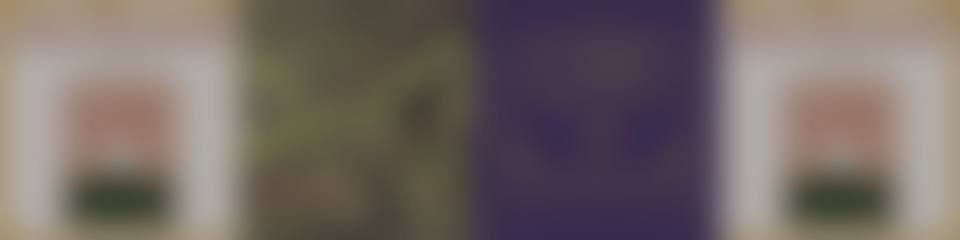
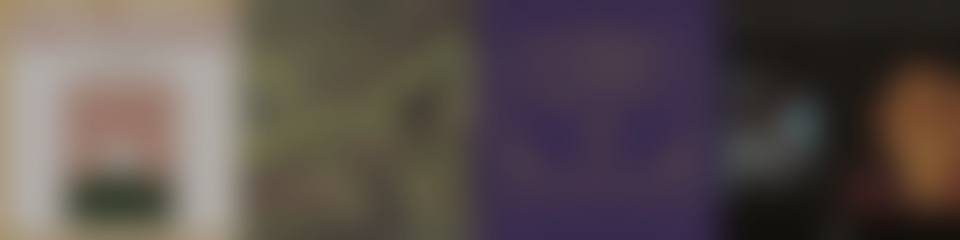
Playlists 43-50

Changed region(s): [[0.7188, 0.0, 1.0, 1.0]]

diff --git a/_page/index.html b/_page/index.html
@@ -194,11 +194,11 @@ footer { margin: 48px 0 0; padding: 18px 0 48px; border-top: 1px solid var(--pap
   <header class="masthead">
     <small><span>Voidceptions</span><span>Cat. 2026-11-22</span></small>
     <h1>Playlist <em>catalogue</em></h1>
-    <small><span>42 playlists · 7 families</span></small>
+    <small><span>50 playlists · 7 families</span></small>
     <p>Notes and listening routes across genres, eras and the experimental edges. Each title opens in YouTube Music.</p>
   </header>
 
-  <nav aria-label="Families"><ol><li class="card"><a class="card-in" href="#ambient-drone" style="--img:url(thumbs/fam-ambient.jpg)"><span class="no">01</span><span class="name">Ambient &amp; Drone</span><span class="n">6</span></a></li><li class="card"><a class="card-in" href="#experimental-sound-design" style="--img:url(thumbs/fam-experimental.jpg)"><span class="no">02</span><span class="name">Experimental &amp; Sound Design</span><span class="n">5</span></a></li><li class="card"><a class="card-in" href="#dub-techno-dub" style="--img:url(thumbs/fam-dub.jpg)"><span class="no">03</span><span class="name">Dub Techno &amp; Dub</span><span class="n">8</span></a></li><li class="card"><a class="card-in" href="#organic-roots" style="--img:url(thumbs/fam-organic.jpg)"><span class="no">04</span><span class="name">Organic &amp; Roots</span><span class="n">3</span></a></li><li class="card"><a class="card-in" href="#idm-electronica" style="--img:url(thumbs/fam-idm.jpg)"><span class="no">05</span><span class="name">IDM &amp; Electronica</span><span class="n">5</span></a></li><li class="card"><a class="card-in" href="#techno" style="--img:url(thumbs/fam-techno.jpg)"><span class="no">06</span><span class="name">Techno</span><span class="n">11</span></a></li><li class="card"><a class="card-in" href="#drum-bass" style="--img:url(thumbs/fam-dnb.jpg)"><span class="no">07</span><span class="name">Drum &amp; Bass</span><span class="n">4</span></a></li><li class="card soon"><span class="card-in"><span class="no">08</span><span class="name">Trance &amp; Goa</span><span class="n">soon</span></span></li></ol></nav>
+  <nav aria-label="Families"><ol><li class="card"><a class="card-in" href="#ambient-drone" style="--img:url(thumbs/fam-ambient.jpg)"><span class="no">01</span><span class="name">Ambient &amp; Drone</span><span class="n">6</span></a></li><li class="card"><a class="card-in" href="#experimental-sound-design" style="--img:url(thumbs/fam-experimental.jpg)"><span class="no">02</span><span class="name">Experimental &amp; Sound Design</span><span class="n">9</span></a></li><li class="card"><a class="card-in" href="#dub-techno-dub" style="--img:url(thumbs/fam-dub.jpg)"><span class="no">03</span><span class="name">Dub Techno &amp; Dub</span><span class="n">9</span></a></li><li class="card"><a class="card-in" href="#organic-roots" style="--img:url(thumbs/fam-organic.jpg)"><span class="no">04</span><span class="name">Organic &amp; Roots</span><span class="n">5</span></a></li><li class="card"><a class="card-in" href="#idm-electronica" style="--img:url(thumbs/fam-idm.jpg)"><span class="no">05</span><span class="name">IDM &amp; Electronica</span><span class="n">5</span></a></li><li class="card"><a class="card-in" href="#techno" style="--img:url(thumbs/fam-techno.jpg)"><span class="no">06</span><span class="name">Techno</span><span class="n">11</span></a></li><li class="card"><a class="card-in" href="#drum-bass" style="--img:url(thumbs/fam-dnb.jpg)"><span class="no">07</span><span class="name">Drum &amp; Bass</span><span class="n">5</span></a></li><li class="card soon"><span class="card-in"><span class="no">08</span><span class="name">Trance &amp; Goa</span><span class="n">soon</span></span></li></ol></nav>
 
   <div class="tools">
     <div class="search-line">
@@ -208,7 +208,7 @@ footer { margin: 48px 0 0; padding: 18px 0 48px; border-top: 1px solid var(--pap
       <button class="random" id="random" type="button">Random</button>
     </div>
     <div class="chips" role="group" aria-label="Filter by tag"><button type="button" class="chip" aria-pressed="false" data-tag="beatless">beatless</button><button type="button" class="chip" aria-pressed="false" data-tag="calm">calm</button><button type="button" class="chip" aria-pressed="false" data-tag="cold">cold</button><button type="button" class="chip" aria-pressed="false" data-tag="dancefloor">dancefloor</button><button type="button" class="chip" aria-pressed="false" data-tag="dark">dark</button><button type="button" class="chip" aria-pressed="false" data-tag="deep listening">deep listening</button><button type="button" class="chip" aria-pressed="false" data-tag="experimental">experimental</button><button type="button" class="chip" aria-pressed="false" data-tag="favourites">favourites</button><button type="button" class="chip" aria-pressed="false" data-tag="field recordings">field recordings</button><button type="button" class="chip" aria-pressed="false" data-tag="glitch">glitch</button><button type="button" class="chip" aria-pressed="false" data-tag="global">global</button><button type="button" class="chip" aria-pressed="false" data-tag="history">history</button><button type="button" class="chip" aria-pressed="false" data-tag="hypnotic">hypnotic</button><button type="button" class="chip" aria-pressed="false" data-tag="long tracks">long tracks</button><button type="button" class="chip" aria-pressed="false" data-tag="melodic">melodic</button><button type="button" class="chip" aria-pressed="false" data-tag="organic">organic</button><button type="button" class="chip" aria-pressed="false" data-tag="rhythm">rhythm</button><button type="button" class="chip" aria-pressed="false" data-tag="texture">texture</button><button type="button" class="chip" aria-pressed="false" data-tag="vocals">vocals</button><button type="button" class="chip" aria-pressed="false" data-tag="warm">warm</button></div>
-    <div class="status"><span id="count" aria-live="polite">42 of 42</span><button id="reset" type="button" hidden>Clear filters</button></div>
+    <div class="status"><span id="count" aria-live="polite">50 of 50</span><button id="reset" type="button" hidden>Clear filters</button></div>
   </div>
 
   <main id="list">
@@ -323,7 +323,7 @@ footer { margin: 48px 0 0; padding: 18px 0 48px; border-top: 1px solid var(--pap
   <header class="fam-head" style="--img:url(thumbs/fam-experimental.jpg)">
     <span class="fam-no">02</span>
     <h2>Experimental &amp; Sound Design</h2>
-    <span class="fam-count">5</span>
+    <span class="fam-count">9</span>
     <button class="info" type="button" aria-expanded="false" aria-controls="experimental-sound-design-info">Info</button>
   </header>
   <div class="unfold" id="experimental-sound-design-info"><div><p class="fam-info">Here the sound itself is the composition. The line runs from musique concrète in late-1940s Paris, where recorded noises were cut and looped on tape, through the electronic studios of Cologne and the BBC Radiophonic Workshop, to IDM, glitch and today&#x27;s sound sculptors. Methods change, from razor blades and tape to granular synthesis and modular systems, but the question stays the same: what happens if a sound is treated as material rather than as a carrier for melody? Rhythm research, texture, digital precision and broken machines all live in this corner.</p></div></div>
@@ -408,13 +408,77 @@ footer { margin: 48px 0 0; padding: 18px 0 48px; border-top: 1px solid var(--pap
   </div>
   <div class="unfold" id="vc042-bg"><div><p class="bg">Generative music starts with rules rather than notes. Terry Riley&#x27;s In C (1964) gives 53 short phrases that each player repeats at will, and Brian Eno&#x27;s Discreet Music (1975) came from tape loops left to run. Laurie Spiegel wrote music software at Bell Labs, and Roland Kayn built self-regulating electronic systems he called cybernetic music. Eno, who coined the term generative music in the 90s, released Reflection (2017) as one such piece.</p></div></div>
 </li>
+<li class="row" data-tags="history|texture" data-search="hauntology · ghosts in the tape music haunted by a future that never arrived. library-music pastiche, worn ballroom records, public-information-film synths and memory as decay, from the ghost box label and the caretaker to their american and british cousins. history texture hauntology borrows a term from the philosopher jacques derrida; the critics simon reynolds and mark fisher applied it to music in the mid-2000s. the ghost box label, founded in 2004 by jim jupp (belbury poly) and julian house (the focus group), built a world from library music, public information films and old educational television. the caretaker, a project of leyland kirby, loops and wears down old ballroom records into studies of memory." data-added="2026-11-22">
+  <div class="row-head">
+    <a class="thumb" href="https://music.youtube.com/playlist?list=PLb1GrzPfw4wQ" rel="noopener" tabindex="-1" aria-hidden="true"><img src="thumbs/VC-045.jpg" width="168" height="168" alt="" loading="lazy" decoding="async"></a>
+    <div class="row-main">
+      <span class="catno">VC-045</span>
+      <h3 class="title"><a href="https://music.youtube.com/playlist?list=PLb1GrzPfw4wQ" rel="noopener">Hauntology · Ghosts in the Tape</a><span class="new" hidden>new</span></h3>
+      <p class="desc">Music haunted by a future that never arrived. Library-music pastiche, worn ballroom records, public-information-film synths and memory as decay, from the Ghost Box label and The Caretaker to their American and British cousins.</p>
+      <p class="meta"><span>14 tracks</span><span>1 h 02 min</span></p>
+      <ul class="tags"><li>history</li><li>texture</li></ul>
+    </div>
+    <button class="fold" type="button" aria-expanded="false" aria-controls="vc045-bg" aria-label="Background for Hauntology · Ghosts in the Tape">
+      <svg viewBox="0 0 16 16" aria-hidden="true"><path d="M3 6l5 5 5-5"/></svg>
+    </button>
+  </div>
+  <div class="unfold" id="vc045-bg"><div><p class="bg">Hauntology borrows a term from the philosopher Jacques Derrida; the critics Simon Reynolds and Mark Fisher applied it to music in the mid-2000s. The Ghost Box label, founded in 2004 by Jim Jupp (Belbury Poly) and Julian House (The Focus Group), built a world from library music, public information films and old educational television. The Caretaker, a project of Leyland Kirby, loops and wears down old ballroom records into studies of memory.</p></div></div>
+</li>
+<li class="row" data-tags="long tracks|hypnotic|history" data-search="minimalism · repetition &amp; pulse the composers who made repetition into a language. pulses, phasing, sustained chords and slowly shifting patterns, from the new york and california pioneers and the european holy minimalists to today&#x27;s heirs. the quiet ancestor of loop-based electronics. long tracks hypnotic history minimalism began in 1960s america. terry riley worked with repetition and tape delay, steve reich found phasing in tape loops, and philip glass built music from additive patterns. in europe arvo part developed his bell-like tintinnabuli style in the 1970s, gavin bryars looped the recorded voice of a homeless man in jesus&#x27; blood never failed me yet, and simeon ten holt wrote canto ostinato for keyboards, with the performers deciding how often each section repeats." data-added="2026-11-22">
+  <div class="row-head">
+    <a class="thumb" href="https://music.youtube.com/playlist?list=PLG5M9YlAZ5Uw" rel="noopener" tabindex="-1" aria-hidden="true"><img src="thumbs/VC-046.jpg" width="168" height="168" alt="" loading="lazy" decoding="async"></a>
+    <div class="row-main">
+      <span class="catno">VC-046</span>
+      <h3 class="title"><a href="https://music.youtube.com/playlist?list=PLG5M9YlAZ5Uw" rel="noopener">Minimalism · Repetition &amp; Pulse</a><span class="new" hidden>new</span></h3>
+      <p class="desc">The composers who made repetition into a language. Pulses, phasing, sustained chords and slowly shifting patterns, from the New York and California pioneers and the European holy minimalists to today&#x27;s heirs. The quiet ancestor of loop-based electronics.</p>
+      <p class="meta"><span>16 tracks</span><span>5 h 04 min</span></p>
+      <ul class="tags"><li>long tracks</li><li>hypnotic</li><li>history</li></ul>
+    </div>
+    <button class="fold" type="button" aria-expanded="false" aria-controls="vc046-bg" aria-label="Background for Minimalism · Repetition &amp; Pulse">
+      <svg viewBox="0 0 16 16" aria-hidden="true"><path d="M3 6l5 5 5-5"/></svg>
+    </button>
+  </div>
+  <div class="unfold" id="vc046-bg"><div><p class="bg">Minimalism began in 1960s America. Terry Riley worked with repetition and tape delay, Steve Reich found phasing in tape loops, and Philip Glass built music from additive patterns. In Europe Arvo Pärt developed his bell-like tintinnabuli style in the 1970s, Gavin Bryars looped the recorded voice of a homeless man in Jesus&#x27; Blood Never Failed Me Yet, and Simeon ten Holt wrote Canto Ostinato for keyboards, with the performers deciding how often each section repeats.</p></div></div>
+</li>
+<li class="row" data-tags="glitch|texture|experimental" data-search="microsound · clicks, cuts &amp; glitch sound design at the smallest scale. skipping cds, sine tones, data and digital dust turned into rhythm and texture, from the mille plateaux and raster-noton era of the late 90s to its quiet descendants. best with headphones and patience. glitch texture experimental microsound works with sound at its smallest scale. in the 90s oval turned skipping, scratched cds into music, the frankfurt label mille plateaux collected the movement on its clicks &amp; cuts compilations, and raster-noton, run by carsten nicolai (alva noto), olaf bender and frank bretschneider, made sine tones and data into a strict, minimal aesthetic. kim cascone described the idea behind it in his 2000 essay the aesthetics of failure." data-added="2026-11-22">
+  <div class="row-head">
+    <a class="thumb" href="https://music.youtube.com/playlist?list=PLYfyHSa3AEps" rel="noopener" tabindex="-1" aria-hidden="true"><img src="thumbs/VC-047.jpg" width="168" height="168" alt="" loading="lazy" decoding="async"></a>
+    <div class="row-main">
+      <span class="catno">VC-047</span>
+      <h3 class="title"><a href="https://music.youtube.com/playlist?list=PLYfyHSa3AEps" rel="noopener">Microsound · Clicks, Cuts &amp; Glitch</a><span class="new" hidden>new</span></h3>
+      <p class="desc">Sound design at the smallest scale. Skipping CDs, sine tones, data and digital dust turned into rhythm and texture, from the Mille Plateaux and Raster-Noton era of the late 90s to its quiet descendants. Best with headphones and patience.</p>
+      <p class="meta"><span>11 tracks</span><span>1 h 33 min</span></p>
+      <ul class="tags"><li>glitch</li><li>texture</li><li>experimental</li></ul>
+    </div>
+    <button class="fold" type="button" aria-expanded="false" aria-controls="vc047-bg" aria-label="Background for Microsound · Clicks, Cuts &amp; Glitch">
+      <svg viewBox="0 0 16 16" aria-hidden="true"><path d="M3 6l5 5 5-5"/></svg>
+    </button>
+  </div>
+  <div class="unfold" id="vc047-bg"><div><p class="bg">Microsound works with sound at its smallest scale. In the 90s Oval turned skipping, scratched CDs into music, the Frankfurt label Mille Plateaux collected the movement on its Clicks &amp; Cuts compilations, and Raster-Noton, run by Carsten Nicolai (Alva Noto), Olaf Bender and Frank Bretschneider, made sine tones and data into a strict, minimal aesthetic. Kim Cascone described the idea behind it in his 2000 essay The Aesthetics of Failure.</p></div></div>
+</li>
+<li class="row" data-tags="texture|dark|experimental" data-search="sound design · scores for the screen film and tv music where sound design is the score. field recordings from a power plant, processed strings, alien textures and synths that feel like weather, from vangelis&#x27; blade runner to the modern scores that blur composition and sound. texture dark experimental film and tv music where score and sound design become one. vangelis played much of his blade runner score (1982) on a yamaha cs-80 synthesizer. decades later mica levi&#x27;s under the skin, johann johannsson&#x27;s arrival and hildur guðnadottir&#x27;s chernobyl, partly built from recordings made inside a decommissioned nuclear power plant, made texture the main voice of the score." data-added="2026-11-22">
+  <div class="row-head">
+    <a class="thumb" href="https://music.youtube.com/playlist?list=PLW1jfBrret1Y" rel="noopener" tabindex="-1" aria-hidden="true"><img src="thumbs/VC-048.jpg" width="168" height="168" alt="" loading="lazy" decoding="async"></a>
+    <div class="row-main">
+      <span class="catno">VC-048</span>
+      <h3 class="title"><a href="https://music.youtube.com/playlist?list=PLW1jfBrret1Y" rel="noopener">Sound Design · Scores for the Screen</a><span class="new" hidden>new</span></h3>
+      <p class="desc">Film and TV music where sound design is the score. Field recordings from a power plant, processed strings, alien textures and synths that feel like weather, from Vangelis&#x27; Blade Runner to the modern scores that blur composition and sound.</p>
+      <p class="meta"><span>12 tracks</span><span>47 min</span></p>
+      <ul class="tags"><li>texture</li><li>dark</li><li>experimental</li></ul>
+    </div>
+    <button class="fold" type="button" aria-expanded="false" aria-controls="vc048-bg" aria-label="Background for Sound Design · Scores for the Screen">
+      <svg viewBox="0 0 16 16" aria-hidden="true"><path d="M3 6l5 5 5-5"/></svg>
+    </button>
+  </div>
+  <div class="unfold" id="vc048-bg"><div><p class="bg">Film and TV music where score and sound design become one. Vangelis played much of his Blade Runner score (1982) on a Yamaha CS-80 synthesizer. Decades later Mica Levi&#x27;s Under the Skin, Jóhann Jóhannsson&#x27;s Arrival and Hildur Guðnadóttir&#x27;s Chernobyl, partly built from recordings made inside a decommissioned nuclear power plant, made texture the main voice of the score.</p></div></div>
+</li>
   </ol>
 </section>
 <section class="family pat-3" id="dub-techno-dub">
   <header class="fam-head" style="--img:url(thumbs/fam-dub.jpg)">
     <span class="fam-no">03</span>
     <h2>Dub Techno &amp; Dub</h2>
-    <span class="fam-count">8</span>
+    <span class="fam-count">9</span>
     <button class="info" type="button" aria-expanded="false" aria-controls="dub-techno-dub-info">Info</button>
   </header>
   <div class="unfold" id="dub-techno-dub-info"><div><p class="fam-info">Dub began in Jamaica around 1970, when engineers like King Tubby and Lee Perry started remixing reggae B-sides at the mixing desk: vocals out, drum and bass up, everything else thrown into echo and spring reverb. In the early 90s Moritz von Oswald and Mark Ernestus carried that method into Detroit-influenced techno with their Berlin label Basic Channel. The result was dub techno: a chord stab dissolving in delay, a deep bass, a steady kick, and a lot of hiss and space. This family covers both sides: the Jamaican and UK roots of dub and everything that grew out of Basic Channel.</p></div></div>
@@ -547,13 +611,29 @@ footer { margin: 48px 0 0; padding: 18px 0 48px; border-top: 1px solid var(--pap
   </div>
   <div class="unfold" id="vc021-bg"><div><p class="bg">Dub as a method rather than a genre. Post-punk bands like The Slits, The Pop Group and Public Image Ltd took its echo and bass in 1979. In the 90s it shaped Bristol trip-hop and British dub-house, from Smith &amp; Mighty to Massive Attack&#x27;s dub album with Mad Professor. In the 2000s dubstep took dub&#x27;s bass weight into digital territory on labels like Hyperdub and DMZ, and modern projects like The Bug and King Midas Sound close the circle.</p></div></div>
 </li>
+<li class="row" data-tags="dark|rhythm|history" data-search="deep dubstep · origins dubstep before the wobble. south london, around 2004 to 2010: sub-bass you feel in the chest, half-step rhythms, dub space and a meditative darkness. dmz, tectonic, hyperdub and deep medi, plus the producers who kept that depth alive. dark rhythm history dubstep grew out of south london&#x27;s garage scene in the early 2000s, around the big apple record shop in croydon. mala and coki, as digital mystikz, founded the dmz label with loefah, and their dmz nights in brixton became the scene&#x27;s home, with sub-bass and space before everything else. kode9&#x27;s hyperdub released burial&#x27;s untrue in 2007, pinch ran tectonic in bristol, and mala&#x27;s deep medi label kept the meditative side going after the genre got louder." data-added="2026-11-22">
+  <div class="row-head">
+    <a class="thumb" href="https://music.youtube.com/playlist?list=PLOIQVqMmV1os" rel="noopener" tabindex="-1" aria-hidden="true"><img src="thumbs/VC-043.jpg" width="168" height="168" alt="" loading="lazy" decoding="async"></a>
+    <div class="row-main">
+      <span class="catno">VC-043</span>
+      <h3 class="title"><a href="https://music.youtube.com/playlist?list=PLOIQVqMmV1os" rel="noopener">Deep Dubstep · Origins</a><span class="new" hidden>new</span></h3>
+      <p class="desc">Dubstep before the wobble. South London, around 2004 to 2010: sub-bass you feel in the chest, half-step rhythms, dub space and a meditative darkness. DMZ, Tectonic, Hyperdub and Deep Medi, plus the producers who kept that depth alive.</p>
+      <p class="meta"><span>16 tracks</span><span>1 h 30 min</span></p>
+      <ul class="tags"><li>dark</li><li>rhythm</li><li>history</li></ul>
+    </div>
+    <button class="fold" type="button" aria-expanded="false" aria-controls="vc043-bg" aria-label="Background for Deep Dubstep · Origins">
+      <svg viewBox="0 0 16 16" aria-hidden="true"><path d="M3 6l5 5 5-5"/></svg>
+    </button>
+  </div>
+  <div class="unfold" id="vc043-bg"><div><p class="bg">Dubstep grew out of South London&#x27;s garage scene in the early 2000s, around the Big Apple record shop in Croydon. Mala and Coki, as Digital Mystikz, founded the DMZ label with Loefah, and their DMZ nights in Brixton became the scene&#x27;s home, with sub-bass and space before everything else. Kode9&#x27;s Hyperdub released Burial&#x27;s Untrue in 2007, Pinch ran Tectonic in Bristol, and Mala&#x27;s Deep Medi label kept the meditative side going after the genre got louder.</p></div></div>
+</li>
   </ol>
 </section>
 <section class="family pat-4" id="organic-roots">
   <header class="fam-head" style="--img:url(thumbs/fam-organic.jpg)">
     <span class="fam-no">04</span>
     <h2>Organic &amp; Roots</h2>
-    <span class="fam-count">3</span>
+    <span class="fam-count">5</span>
     <button class="info" type="button" aria-expanded="false" aria-controls="organic-roots-info">Info</button>
   </header>
   <div class="unfold" id="organic-roots-info"><div><p class="fam-info">Electronic music with soil under its fingernails. This family gathers music where machines meet older things: hand percussion, flutes, field recordings, forests and rivers, or the pastoral side of 1970s German electronics. Some of it comes from Jon Hassell&#x27;s idea of a Fourth World music, some from Andean and African rhythms meeting club culture, some from Kosmische musicians recording in farmhouses in the countryside. The common thread is warmth and a sense of place, music that feels grown rather than programmed.</p></div></div>
@@ -605,6 +685,38 @@ footer { margin: 48px 0 0; padding: 18px 0 48px; border-top: 1px solid var(--pap
     </button>
   </div>
   <div class="unfold" id="vc023-bg"><div><p class="bg">The German roots of ambient and electronic music. In the 1970s, bands that British critics lumped together as krautrock explored motorik grooves, synth drifts and gentle pastorals. Cluster and Harmonia recorded in the countryside village of Forst, Neu! invented a hypnotic straight-ahead beat, and the Berlin School of Tangerine Dream and Klaus Schulze stretched sequencers into long journeys. Brian Eno came to work with Cluster and learned a lot here. Manuel Göttsching&#x27;s E2-E4 closes the playlist and later became a touchstone for house and techno.</p></div></div>
+</li>
+<li class="row" data-tags="global|warm|experimental" data-search="fourth world · possible musics jon hassell&#x27;s idea of a music that is primitive and futuristic at once: processed trumpet, borrowed rhythms and imaginary geographies, from his collaborations with eno to the ecm-adjacent and modern artists who followed the map. global warm experimental jon hassell coined the term fourth world for a music that is primitive and futuristic at once. his 1980 album with brian eno, fourth world vol. 1: possible musics, set his electronically treated trumpet over rhythms drawn from many traditions. eno and david byrne followed with my life in the bush of ghosts (1981), and the idea runs on through holger czukay, nils petter molvær and, more recently, visible cloaks." data-added="2026-11-22">
+  <div class="row-head">
+    <a class="thumb" href="https://music.youtube.com/playlist?list=PLCtC117MqJiw" rel="noopener" tabindex="-1" aria-hidden="true"><img src="thumbs/VC-049.jpg" width="168" height="168" alt="" loading="lazy" decoding="async"></a>
+    <div class="row-main">
+      <span class="catno">VC-049</span>
+      <h3 class="title"><a href="https://music.youtube.com/playlist?list=PLCtC117MqJiw" rel="noopener">Fourth World · Possible Musics</a><span class="new" hidden>new</span></h3>
+      <p class="desc">Jon Hassell&#x27;s idea of a music that is primitive and futuristic at once: processed trumpet, borrowed rhythms and imaginary geographies, from his collaborations with Eno to the ECM-adjacent and modern artists who followed the map.</p>
+      <p class="meta"><span>11 tracks</span><span>1 h 11 min</span></p>
+      <ul class="tags"><li>global</li><li>warm</li><li>experimental</li></ul>
+    </div>
+    <button class="fold" type="button" aria-expanded="false" aria-controls="vc049-bg" aria-label="Background for Fourth World · Possible Musics">
+      <svg viewBox="0 0 16 16" aria-hidden="true"><path d="M3 6l5 5 5-5"/></svg>
+    </button>
+  </div>
+  <div class="unfold" id="vc049-bg"><div><p class="bg">Jon Hassell coined the term Fourth World for a music that is primitive and futuristic at once. His 1980 album with Brian Eno, Fourth World Vol. 1: Possible Musics, set his electronically treated trumpet over rhythms drawn from many traditions. Eno and David Byrne followed with My Life in the Bush of Ghosts (1981), and the idea runs on through Holger Czukay, Nils Petter Molvær and, more recently, Visible Cloaks.</p></div></div>
+</li>
+<li class="row" data-tags="global|deep listening|long tracks" data-search="ritual ambient · earth &amp; trance ambient that looks down instead of up. didgeridoo drones, frame drums, rainforest recordings and slow ritual pulses, the tribal-ambient school of the late 80s and 90s from the american desert to mexico and belgium. global deep listening long tracks ritual ambient took shape in the american southwest in the late 80s. steve roach&#x27;s dreamtime return (1988), inspired by his travels in australia, joined synthesizers with didgeridoo and percussion. roach then worked with the mexican musician jorge reyes and the spanish guitarist suso saiz as suspended memories, and with the belgian dirk serries, known as vidna obmana. robert rich and michael stearns explored the same ground." data-added="2026-11-22">
+  <div class="row-head">
+    <a class="thumb" href="https://music.youtube.com/playlist?list=PLIzNfhdbe1iE" rel="noopener" tabindex="-1" aria-hidden="true"><img src="thumbs/VC-050.jpg" width="168" height="168" alt="" loading="lazy" decoding="async"></a>
+    <div class="row-main">
+      <span class="catno">VC-050</span>
+      <h3 class="title"><a href="https://music.youtube.com/playlist?list=PLIzNfhdbe1iE" rel="noopener">Ritual Ambient · Earth &amp; Trance</a><span class="new" hidden>new</span></h3>
+      <p class="desc">Ambient that looks down instead of up. Didgeridoo drones, frame drums, rainforest recordings and slow ritual pulses, the tribal-ambient school of the late 80s and 90s from the American desert to Mexico and Belgium.</p>
+      <p class="meta"><span>9 tracks</span><span>56 min</span></p>
+      <ul class="tags"><li>global</li><li>deep listening</li><li>long tracks</li></ul>
+    </div>
+    <button class="fold" type="button" aria-expanded="false" aria-controls="vc050-bg" aria-label="Background for Ritual Ambient · Earth &amp; Trance">
+      <svg viewBox="0 0 16 16" aria-hidden="true"><path d="M3 6l5 5 5-5"/></svg>
+    </button>
+  </div>
+  <div class="unfold" id="vc050-bg"><div><p class="bg">Ritual ambient took shape in the American Southwest in the late 80s. Steve Roach&#x27;s Dreamtime Return (1988), inspired by his travels in Australia, joined synthesizers with didgeridoo and percussion. Roach then worked with the Mexican musician Jorge Reyes and the Spanish guitarist Suso Saiz as Suspended Memories, and with the Belgian Dirk Serries, known as Vidna Obmana. Robert Rich and Michael Stearns explored the same ground.</p></div></div>
 </li>
   </ol>
 </section>
@@ -890,11 +1002,27 @@ footer { margin: 48px 0 0; padding: 18px 0 48px; border-top: 1px solid var(--pap
   <header class="fam-head" style="--img:url(thumbs/fam-dnb.jpg)">
     <span class="fam-no">07</span>
     <h2>Drum &amp; Bass</h2>
-    <span class="fam-count">4</span>
+    <span class="fam-count">5</span>
     <button class="info" type="button" aria-expanded="false" aria-controls="drum-bass-info">Info</button>
   </header>
   <div class="unfold" id="drum-bass-info"><div><p class="fam-info">Drum &amp; bass grew out of the UK rave scene in the early 1990s, when producers sped up and cut apart breakbeats and placed them over heavy sub-bass inherited from reggae sound system culture. Jungle came first, rough and rooted in dub and ragga; drum &amp; bass refined it into many directions, from liquid and atmospheric to dark, technical and neurofunk. At its best it holds two tempos at once: frantic drums on top, slow and deep bass underneath.</p></div></div>
   <ol class="rows">
+<li class="row" data-tags="history|rhythm|dancefloor" data-search="jungle · amen to today the breakbeat science before it became drum &amp; bass, and the people still practising it. chopped amens, reggae basslines and sirens from 1992 to 1995, then the current revival that treats jungle as living craft rather than nostalgia. history rhythm dancefloor jungle took shape in london around 1992 and 1993, when hardcore producers chopped up breakbeats like the amen break and set them against reggae basslines and sound-system culture. goldie&#x27;s rufige kru and labels such as moving shadow and suburban base defined the sound. since the 2010s special request, tim reaper and coco bryce have made new jungle with the old tools." data-added="2026-11-22">
+  <div class="row-head">
+    <a class="thumb" href="https://music.youtube.com/playlist?list=PLfcCjh3fucRo" rel="noopener" tabindex="-1" aria-hidden="true"><img src="thumbs/VC-044.jpg" width="168" height="168" alt="" loading="lazy" decoding="async"></a>
+    <div class="row-main">
+      <span class="catno">VC-044</span>
+      <h3 class="title"><a href="https://music.youtube.com/playlist?list=PLfcCjh3fucRo" rel="noopener">Jungle · Amen to Today</a><span class="new" hidden>new</span></h3>
+      <p class="desc">The breakbeat science before it became drum &amp; bass, and the people still practising it. Chopped amens, reggae basslines and sirens from 1992 to 1995, then the current revival that treats jungle as living craft rather than nostalgia.</p>
+      <p class="meta"><span>14 tracks</span><span>1 h 19 min</span></p>
+      <ul class="tags"><li>history</li><li>rhythm</li><li>dancefloor</li></ul>
+    </div>
+    <button class="fold" type="button" aria-expanded="false" aria-controls="vc044-bg" aria-label="Background for Jungle · Amen to Today">
+      <svg viewBox="0 0 16 16" aria-hidden="true"><path d="M3 6l5 5 5-5"/></svg>
+    </button>
+  </div>
+  <div class="unfold" id="vc044-bg"><div><p class="bg">Jungle took shape in London around 1992 and 1993, when hardcore producers chopped up breakbeats like the Amen break and set them against reggae basslines and sound-system culture. Goldie&#x27;s Rufige Kru and labels such as Moving Shadow and Suburban Base defined the sound. Since the 2010s Special Request, Tim Reaper and Coco Bryce have made new jungle with the old tools.</p></div></div>
+</li>
 <li class="row" data-tags="history|calm|rhythm" data-search="dnb · atmospheric origins when jungle learned to breathe. the mid-90s, when good looking, metalheadz and a few london studios laid pads, jazz chords and rain over breakbeats and invented drum &amp; bass for listening. history calm rhythm when jungle learned to breathe. the playlist starts in the hardcore years with omni trio, blame and nookie, then moves to the mid 90s, when ltj bukem&#x27;s good looking label and its logical progression compilations laid pads, jazz chords and sampled rain over rolling breakbeats, with pfm, peshay, big bud and blu mar ten close by. goldie&#x27;s metalheadz circle answered with a darker, more precise sound, heard here in j majik, photek and source direct." data-added="2026-11-21">
   <div class="row-head">
     <a class="thumb" href="https://music.youtube.com/playlist?list=PLah3du8IWVwo" rel="noopener" tabindex="-1" aria-hidden="true"><img src="thumbs/VC-031.jpg" width="168" height="168" alt="" loading="lazy" decoding="async"></a>

diff --git a/_page/sw.js b/_page/sw.js
@@ -1,4 +1,4 @@
-const CACHE = "vc-cea58f4255";
+const CACHE = "vc-d741076d07";
 
 self.addEventListener("install", () => self.skipWaiting());
 self.addEventListener("activate", e => e.waitUntil((async () => {
